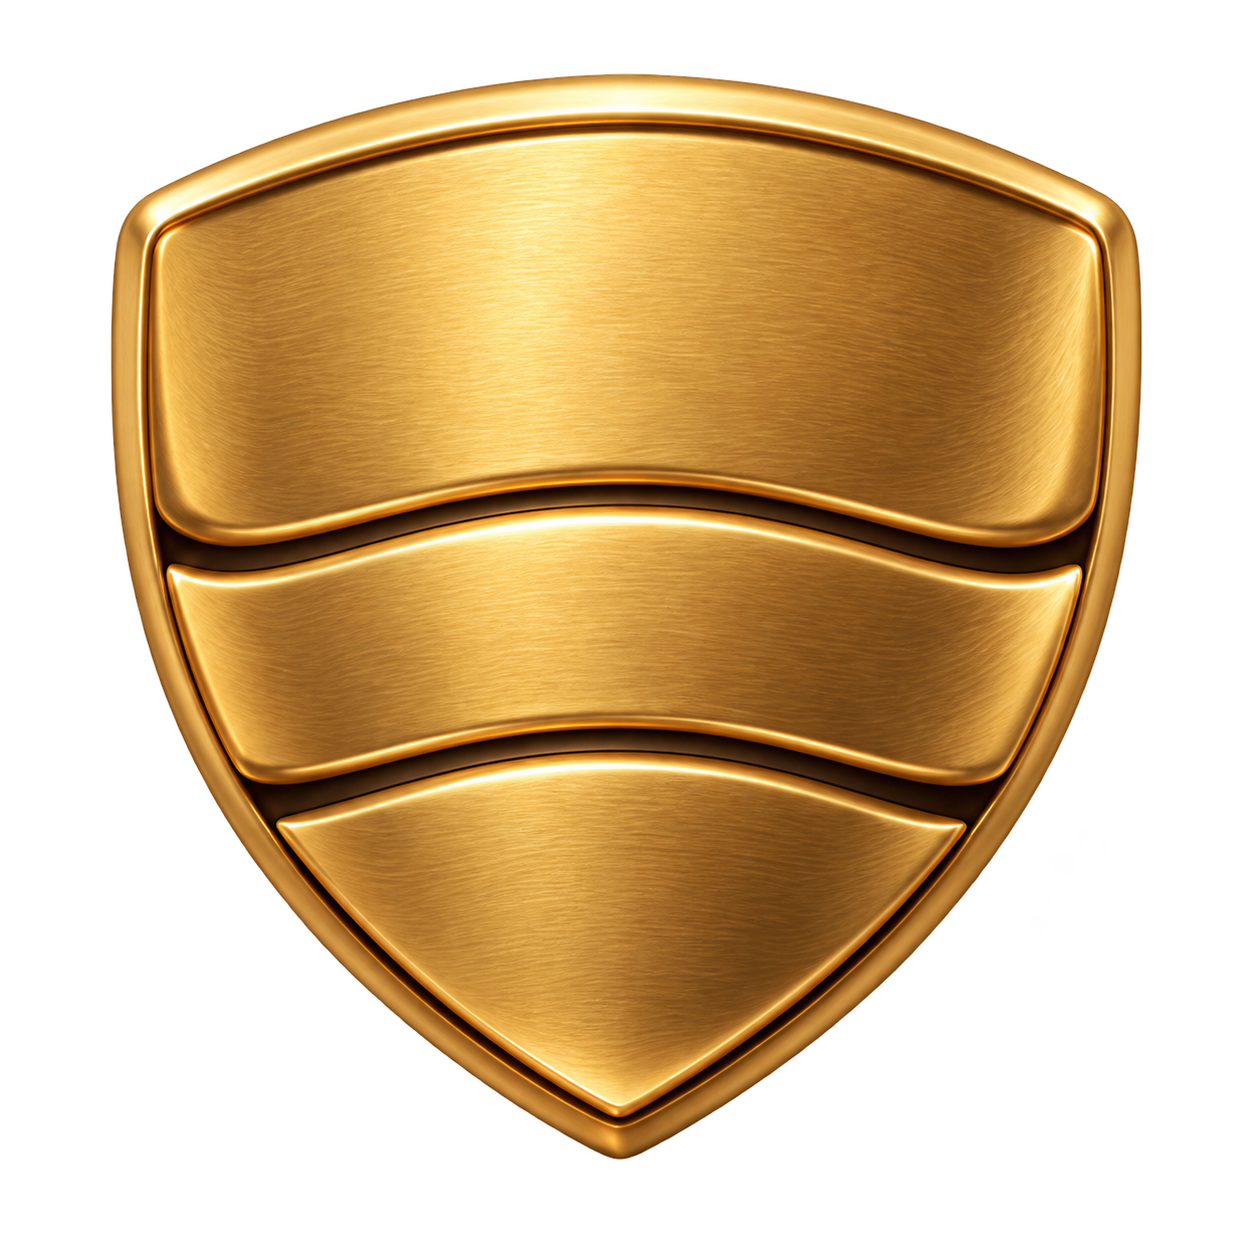
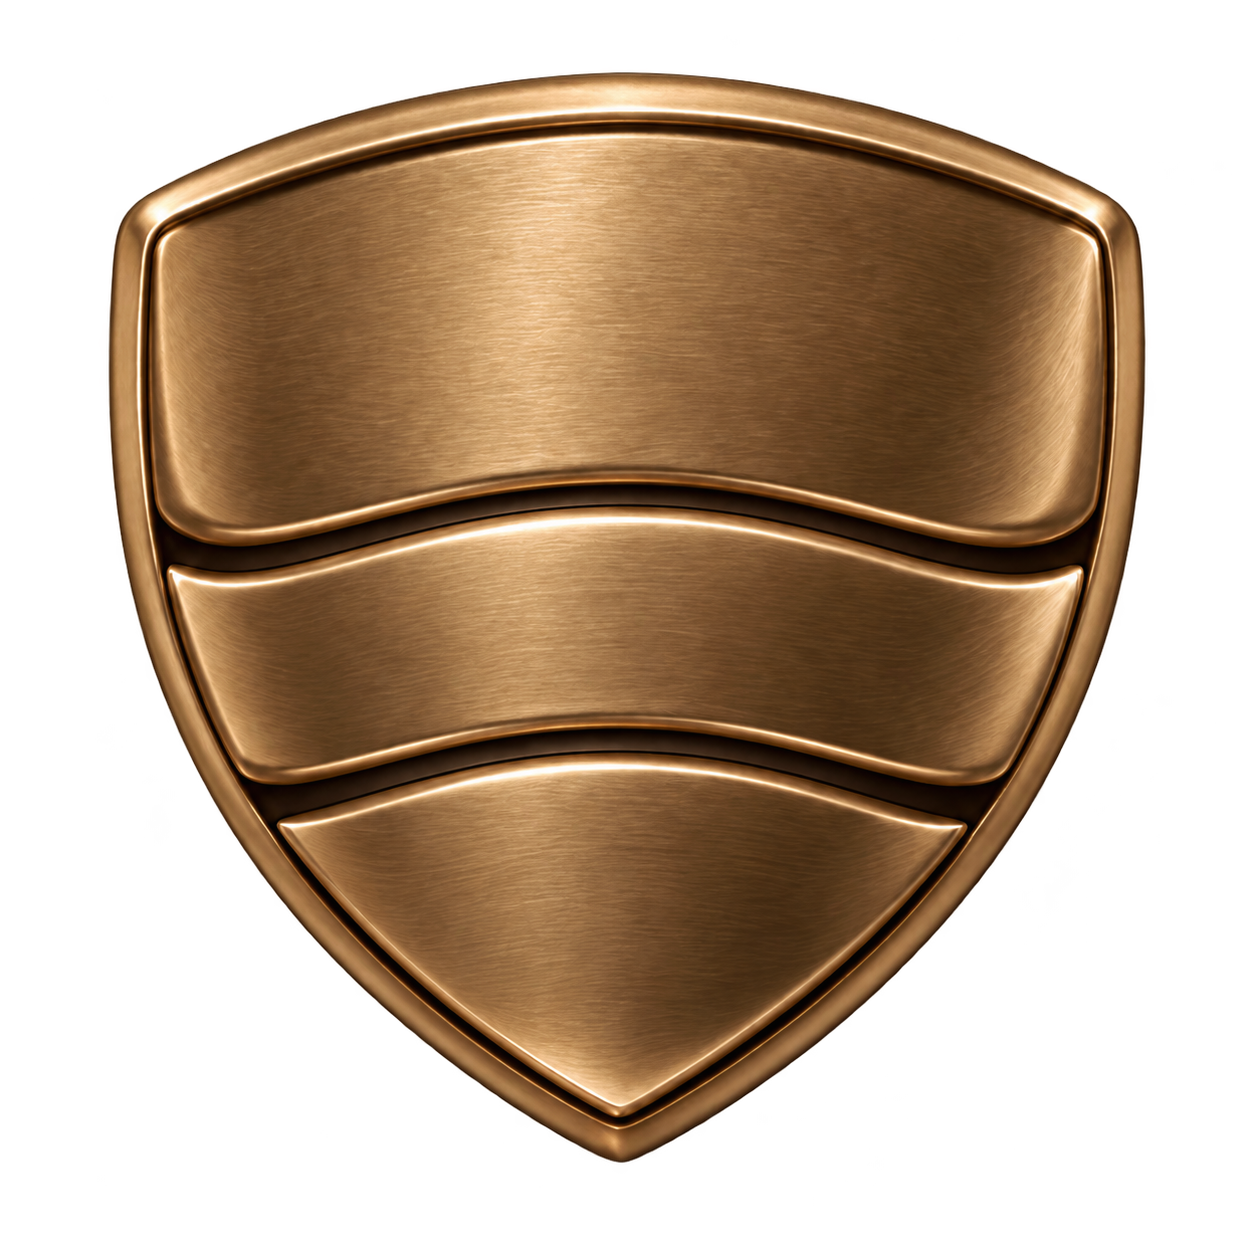
Match Horizon Shield artwork to Sunrise bronze across app and site

diff --git a/test/unit/website-horizon-shield.test.js b/test/unit/website-horizon-shield.test.js
@@ -134,7 +134,7 @@ test('front and back have identical relief and UVs joined by a solid beveled per
   assert.ok([...edges.values()].every(count => count === 2), 'every welded edge belongs to two triangles: no open sides');
 });
 
-test('provider launch copy remains release-gated with pinned candidate evidence and approved artwork', () => {
+test('provider launch copy remains release-gated and shared shield exports match their recorded master', async () => {
   const ledger = JSON.parse(read('docs/website-blocking-launch.json'));
   const home = read(ledger.source).replace(/<br\s*\/?>/g, ' ').replace(/\s+/g, ' ');
   assert.equal(ledger.status, 'release-gated-draft');
@@ -160,8 +160,21 @@ test('provider launch copy remains release-gated with pinned candidate evidence 
   }
   const artwork = fs.readFileSync(path.join(root, ledger.artwork.file));
   assert.equal(crypto.createHash('sha256').update(artwork).digest('hex'), ledger.artwork.sha256);
-  const approved = execFileSync('git', ['show', `${ledger.artwork.approvedRevision}:${ledger.artwork.source}`], { cwd: root, maxBuffer: 4 * 1024 * 1024 });
-  assert.deepEqual(fs.readFileSync(path.join(root, ledger.artwork.source)), approved);
+  const hash = data => crypto.createHash('sha256').update(data).digest('hex');
+  const original = execFileSync('git', ['show', `${ledger.artwork.originalApprovedRevision}:${ledger.artwork.source}`], { cwd: root, maxBuffer: 4 * 1024 * 1024 });
+  assert.equal(hash(original), ledger.artwork.originalSourceSha256);
+  const master = fs.readFileSync(path.join(root, ledger.artwork.source));
+  assert.equal(hash(master), ledger.artwork.sourceSha256);
+  const runtime = fs.readFileSync(path.join(root, ledger.artwork.runtime.file));
+  assert.equal(hash(runtime), ledger.artwork.runtime.sha256);
+  assert.equal(hash(fs.readFileSync(path.join(root, ledger.artwork.model.outline))), ledger.artwork.model.outlineSha256);
+  assert.equal(hash(fs.readFileSync(path.join(root, ledger.artwork.recolor.reference))), ledger.artwork.recolor.referenceSha256);
+  const sharp = require('sharp');
+  const options = {fit:'contain', background:{r:0,g:0,b:0,alpha:0}};
+  assert.deepEqual(await sharp(master).trim({threshold:8}).resize(128,128,options).png().toBuffer(), runtime,
+    'the desktop icon must be an unfiltered export of the shared master');
+  assert.deepEqual(await sharp(master).trim({threshold:8}).resize(960,960,options).webp({quality:90,alphaQuality:100,effort:6}).toBuffer(), artwork,
+    'the website must use the same edited master as the app');
   assert.ok(read('ASSET-LICENSE.md').includes(ledger.artwork.file));
   assert.match(home, /href="\/trust#ad-blocking"/);
   assert.match(home, /href="\/trust#connections"/);

diff --git a/site/src/scripts/horizon-shield-renderer.js b/site/src/scripts/horizon-shield-renderer.js
@@ -22,7 +22,7 @@ export async function createShieldRenderer(mount) {
   scene.environment = environment.texture;
   scene.environmentIntensity = 0.7;
   room.dispose(); pmrem.dispose();
-  const key = new DirectionalLight(0xfff4dd, 0.8);
+  const key = new DirectionalLight(0xfff8f0, 0.8);
   key.position.set(-3, 5, 5); scene.add(key);
   const edgeLight = new DirectionalLight(0xffffff, 0.85);
   edgeLight.position.set(4, 1, -3); scene.add(edgeLight);
@@ -31,8 +31,8 @@ export async function createShieldRenderer(mount) {
   catch (error) { environment.dispose(); renderer.dispose(); throw error; }
   texture.colorSpace = SRGBColorSpace;
   texture.anisotropy = Math.min(4, renderer.capabilities.getMaxAnisotropy());
-  const gold = new MeshPhysicalMaterial({
-    color: new Color('#dcb361'), metalness: 1, roughness: 0.56,
+  const bronze = new MeshPhysicalMaterial({
+    color: new Color('#a67b4f'), metalness: 1, roughness: 0.56,
     clearcoat: 0,
   });
   const face = new MeshPhysicalMaterial({
@@ -49,7 +49,7 @@ export async function createShieldRenderer(mount) {
     return [name, mesh];
   }));
   const shield = new Group();
-  shield.add(new Mesh(geometry.front, face), new Mesh(geometry.back, face), new Mesh(geometry.rim, gold));
+  shield.add(new Mesh(geometry.front, face), new Mesh(geometry.back, face), new Mesh(geometry.rim, bronze));
   shield.rotation.x = -0.06;
   scene.add(shield);
   const canvas = renderer.domElement;
@@ -79,7 +79,7 @@ export async function createShieldRenderer(mount) {
     turn(angle) { shield.rotation.y = angle; draw(); },
     dispose() {
       resizeObserver.disconnect(); texture.dispose(); environment.dispose();
-      face.dispose(); gold.dispose(); Object.values(geometry).forEach(item => item.dispose());
+      face.dispose(); bronze.dispose(); Object.values(geometry).forEach(item => item.dispose());
       renderer.dispose(); canvas.remove(); mount.classList.remove('is-3d');
     },
   };

diff --git a/src/renderer/styles.css b/src/renderer/styles.css
@@ -1269,7 +1269,7 @@ body.mac .vertical-tabs-toolbar {
 #pillPrivateChip svg,
 #pillSourceChip svg { width: 8px; height: 8px; stroke-width: 2; }
 
-/* Horizon Shield: layered gold artwork in the existing 24px hover-circle.
+/* Horizon Shield: layered Sunrise bronze artwork in the existing 24px hover-circle.
    The count remains a separate badge on the shield's shoulder. */
 .shield {
   appearance: none;

diff --git a/docs/verification/2026-10-03-horizon-shield-bronze.md b/docs/verification/2026-10-03-horizon-shield-bronze.md
@@ -1,0 +1,62 @@
+# Horizon Shield — Sunrise bronze revision
+
+On October 3, 2026, the owner requested a less golden, more copper/bronze
+Horizon Shield matching the Sunrise sun, everywhere in the app and website.
+This supersedes the earlier yellow-gold color direction, while retaining the
+three curved plates, raised perimeter, brushed material and transparent
+background. The original approval record remains in
+`2026-10-03-horizon-shield.md` and revision `03621de6`.
+
+## Shared artwork
+
+- `assets/horizon-shield.png`: edited 1254×1254 transparent master.
+- `src/renderer/shield-horizon.png`: alpha-trimmed 128×128 transparent PNG,
+  rendered at the existing 16px native size with the original badge and states.
+- `site/public/horizon-shield.webp`: alpha-trimmed 960×960 export, used by the
+  hero Island, the Privacy fallback and both faces of its 3D model.
+- The closed 3D rim uses bronze `#a67b4f`; its key light is `#fff8f0` to reduce
+  the earlier yellow cast. Satin roughness and subdued lighting remain.
+
+The original Sunrise mark is unchanged. Historical public product screenshots
+remain immutable; this is artwork for the next app/website launch, not a
+statement that it has shipped in public v1.26.0. No desktop blocking behavior,
+control geometry, hit targets or accessibility strings change.
+
+Both exports are derived with the pinned Sharp version: trim threshold 8,
+contain resize and transparent padding. The runtime export uses PNG; the site
+uses WebP quality 90, alphaQuality 100, effort 6. Run
+`node site/scripts/build-horizon-outline.mjs` after the website export to trace
+the final alpha silhouette for the closed mesh. Source/reference/export hashes
+and the historical source hash are recorded in `docs/website-blocking-launch.json`.
+
+## Image edit provenance
+
+Tool: built-in `image_gen.imagegen`, edit mode, transparent background.
+Image 1 was the existing master at revision `2c950840`. Image 2 was the unchanged
+`site/public/sunrise-hero-mark.png` as a palette reference only.
+
+Exact prompt:
+
+> Use case: precise-object-edit. Edit target: image 1, the existing transparent layered Horizon Shield. Palette reference only: image 2, Blanc's original Sunrise mark. Recolor ONLY the shield's metal so it matches the sun's restrained antique copper/bronze: medium brown-bronze face, warm muted copper midtones, deep umber seams, soft pale champagne highlights. Remove the bright yellow-gold/orange-gold cast; avoid reddish rose-gold. The shield should feel the same material and tonal family as the Sunrise sun. Preserve the exact existing shield silhouette, broad rounded top, tapered tip, three curved horizontal plates, two dark seams, raised perimeter, front-facing camera, brushed grain, dimensions and framing. Do not redesign, move the seams, add a sun symbol, text, logo, scene, shadow or background. Preserve genuine alpha transparency. Single recolored shield only, high resolution, sharply defined edges. Retain the satin brushed finish with restrained shine.
+
+Generated output: `exec-6f5c31e0-1ae7-4861-b27f-9dd2cc52e6b8.png`, copied into
+the project master. The alpha outline is derived from the final edited artwork;
+pixel-identical geometry to the previous raster is not assumed.
+
+## Validation
+
+- All 38 focused native-shield, chrome-resource, hero, website-model and
+  public-capture evidence tests pass. The existing export test now reproduces
+  both app and website assets byte-for-byte from the shared bronze master;
+  original and edited source evidence remain separately pinned.
+- Production/SEO build and lint pass. The existing lazy Three.js chunk size
+  advisory remains; no dependency changed.
+- The website hero icon, large front/back artwork and bronze side surface were
+  inspected in the 855×792 browser preview. No page overflow or browser console
+  warnings/errors were observed. The original Sunrise mark remains unchanged.
+- The 128px native runtime export was visually inspected. This revision did
+  not launch a native desktop instance or produce a packaged app; the earlier
+  native interaction checks remain historical evidence, not a fresh run.
+
+The change remains on the revamp PR and retains its app-release dependency.
+No public app release or website deployment was performed.

diff --git a/docs/website-revamp-review.md b/docs/website-revamp-review.md
@@ -219,15 +219,15 @@ not a claim that Cloudflare redirects or the canonical deployment have shipped.
 
 ## Horizon Shield and blocking choices — October 3
 
-Privacy and Control features the approved gold Horizon Shield at a large scale,
+Privacy and Control features the Sunrise bronze Horizon Shield at a large scale,
 beside Blanc Blocker and uBlock Origin. The original transparent source is
-exported faithfully to a 960px WebP (160,406 bytes), which remains the fallback.
+exported faithfully to a 960px WebP (139,890 bytes), which remains the fallback.
 A solid relief mesh follows its alpha silhouette: matching front and back
 surfaces use the same original artwork and UVs, turned 180 degrees, with two
-recessed seams and closed beveled gold walls between them. The visible caption
+recessed seams and closed beveled bronze walls between them. The visible caption
 is removed; the figure retains an accessible name.
 
-Three.js 0.186.1 renders the model with softer lighting and a satin gold finish:
+Three.js 0.186.1 renders the model with softer lighting and a satin bronze finish:
 reduced exposure, environment and edge lighting, rougher surfaces, and no
 clearcoat reduce glare while retaining the original brushed artwork and relief.
 Its separate chunk loads
@@ -283,3 +283,12 @@ or errors.
 The branch also incorporates main through `03621de6`, bringing in the approved
 shield asset and resolving the duplicate http-cache-semantics review while
 retaining both reviews' bounded checks. No deployment was performed.
+
+The owner's later October 3 color correction replaces bright yellow gold with
+the original Sunrise sun's copper/bronze family. The shared master feeds both
+the native 128px PNG and website 960px WebP, including both 3D faces and the
+enlarged hero Island. The rim is bronze and the key light is more neutral to
+avoid reintroducing a yellow cast. The final alpha silhouette was retraced for
+the closed 3D model. Original approval evidence remains pinned separately from
+the recolored master and its exports in the launch ledger; the edit prompt is
+recorded in `docs/verification/2026-10-03-horizon-shield-bronze.md`.

diff --git a/docs/brand-usage.md b/docs/brand-usage.md
@@ -185,13 +185,18 @@ Island and everything that opens from it, the strip, the vertical tabs rail,
 the Glance header and the window controls.
 
 **Horizon Shield, owner-approved October 3, 2026:** the Island's blocker button
-uses the layered gold Horizon Shield as a scoped exception to the neutral icon
+uses the layered copper/bronze Horizon Shield as a scoped exception to the neutral icon
 palette. Use `src/renderer/shield-horizon.png` at 16×16 CSS pixels within the
 existing 24px button; the Island's shared zoom still applies. Keep the count as
 a separate badge and desaturate the artwork when blocking is off. The source is
 `assets/horizon-shield.png`. This product mark does not replace Sunrise or warm
 the surrounding Island. It is approved for the next desktop release; public
 screenshots and marketing must continue to follow the release boundary.
+The owner's later October 3 correction matches the shield's metal to the
+original Sunrise sun: muted copper/bronze faces, deep brown seams and restrained
+champagne highlights, rather than bright yellow gold. The app PNG and website
+WebP derive from this shared master; the 3D rim uses matching bronze. Preserve
+the Sunrise artwork itself and historical public-release captures.
 
 Warm surfaces use the shared `--sunrise-*` tokens (`tokens/tokens.json`) by
 remapping the semantic tokens inside a scope class, never by hard-coding

diff --git a/docs/verification/2026-10-03-horizon-shield.md b/docs/verification/2026-10-03-horizon-shield.md
@@ -4,6 +4,11 @@ The owner selected Horizon Shield from three gold-shield concepts on October 3,
 2026, reviewed it in an isolated native Blanc dev instance, and approved the
 smaller 16px revision before requesting a squash merge for the next release.
 
+The later same-day copper/bronze color direction supersedes the gold palette
+below. See `2026-10-03-horizon-shield-bronze.md` for the revised shared master,
+app and website exports, edit prompt and validation. This record preserves the
+original selection and native interaction review.
+
 ## Final presentation
 
 Three curved gold plates form a rounded shield with two dark bronze seams.

diff --git a/ASSET-LICENSE.md b/ASSET-LICENSE.md
@@ -29,7 +29,7 @@ Source mark:
 
 Product marks:
 
-- `assets/horizon-shield.png` — layered gold Horizon Shield source artwork
+- `assets/horizon-shield.png` — layered copper/bronze Horizon Shield source artwork
 - `src/renderer/shield-horizon.png` — transparent Island toolbar export
 - `site/public/horizon-shield.webp` — transparent website export
 - `site/src/data/horizon-shield-outline.json` — silhouette for the website’s 3D product mark
